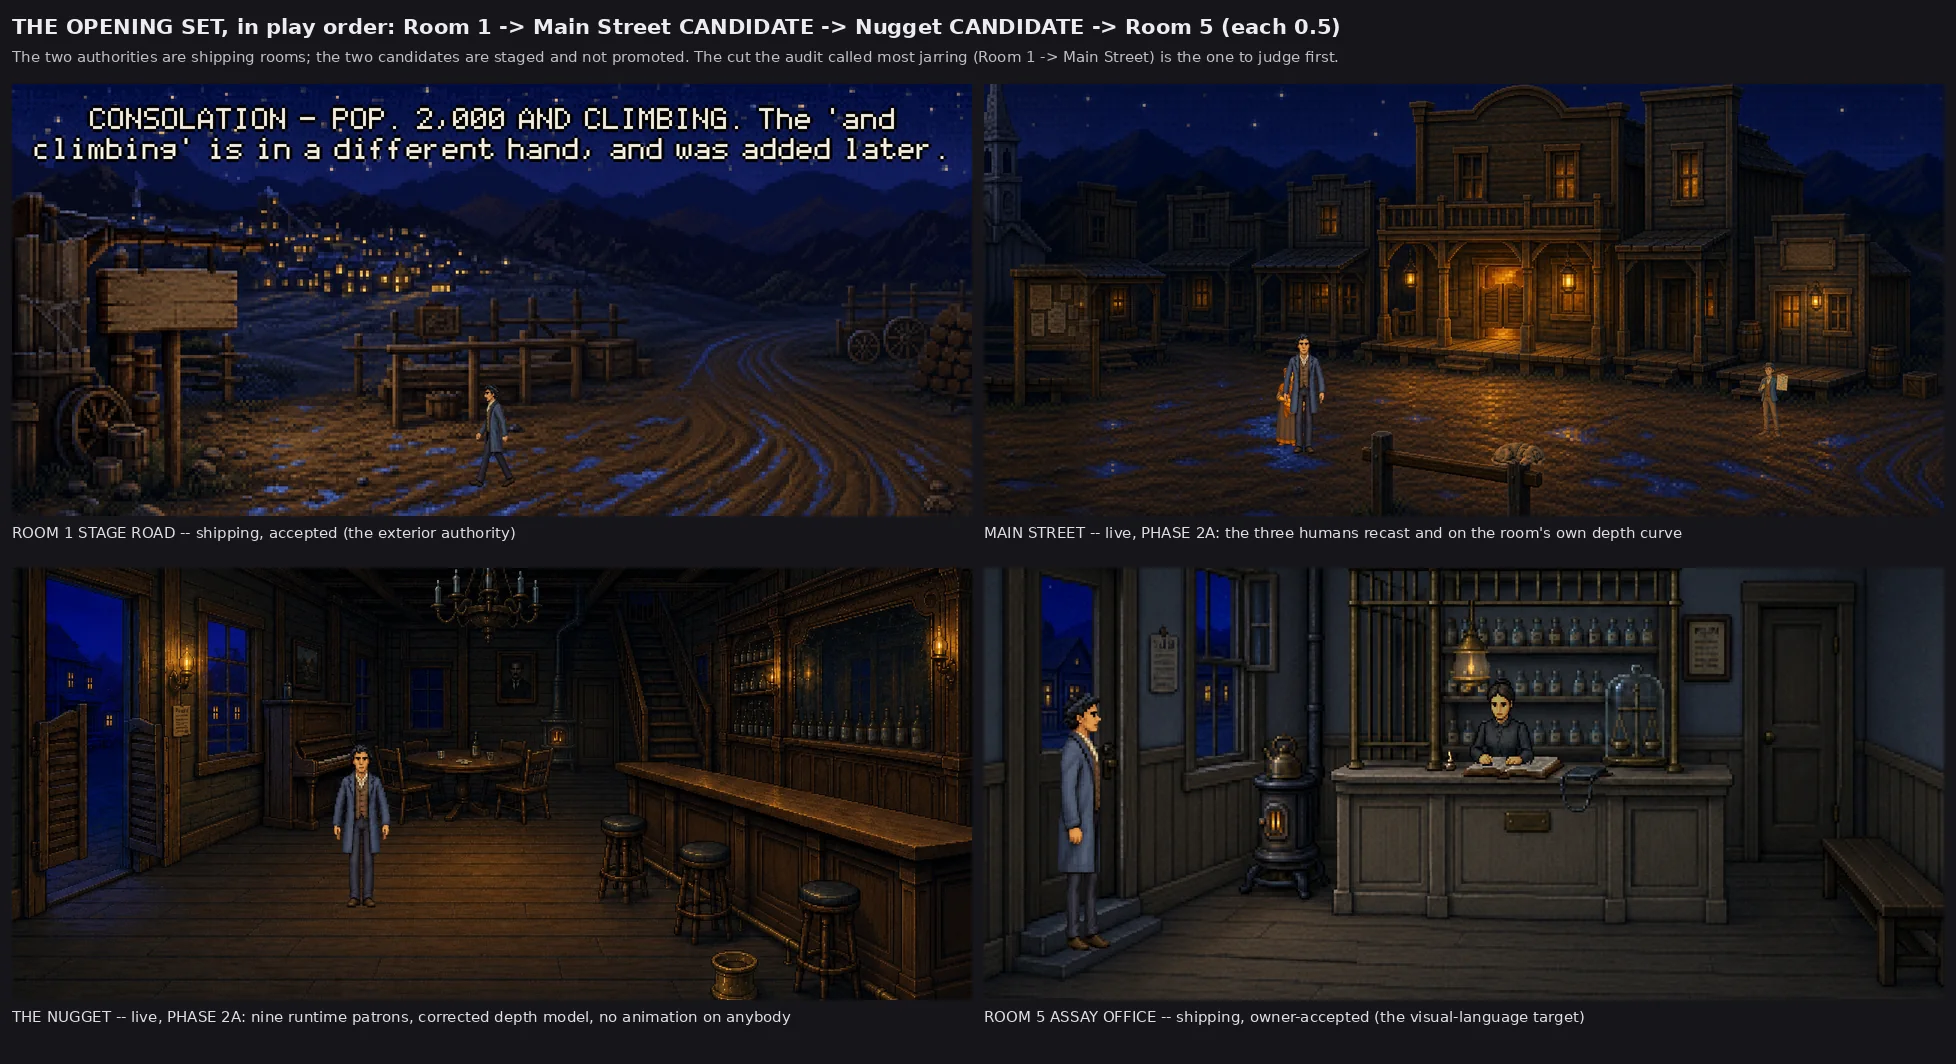
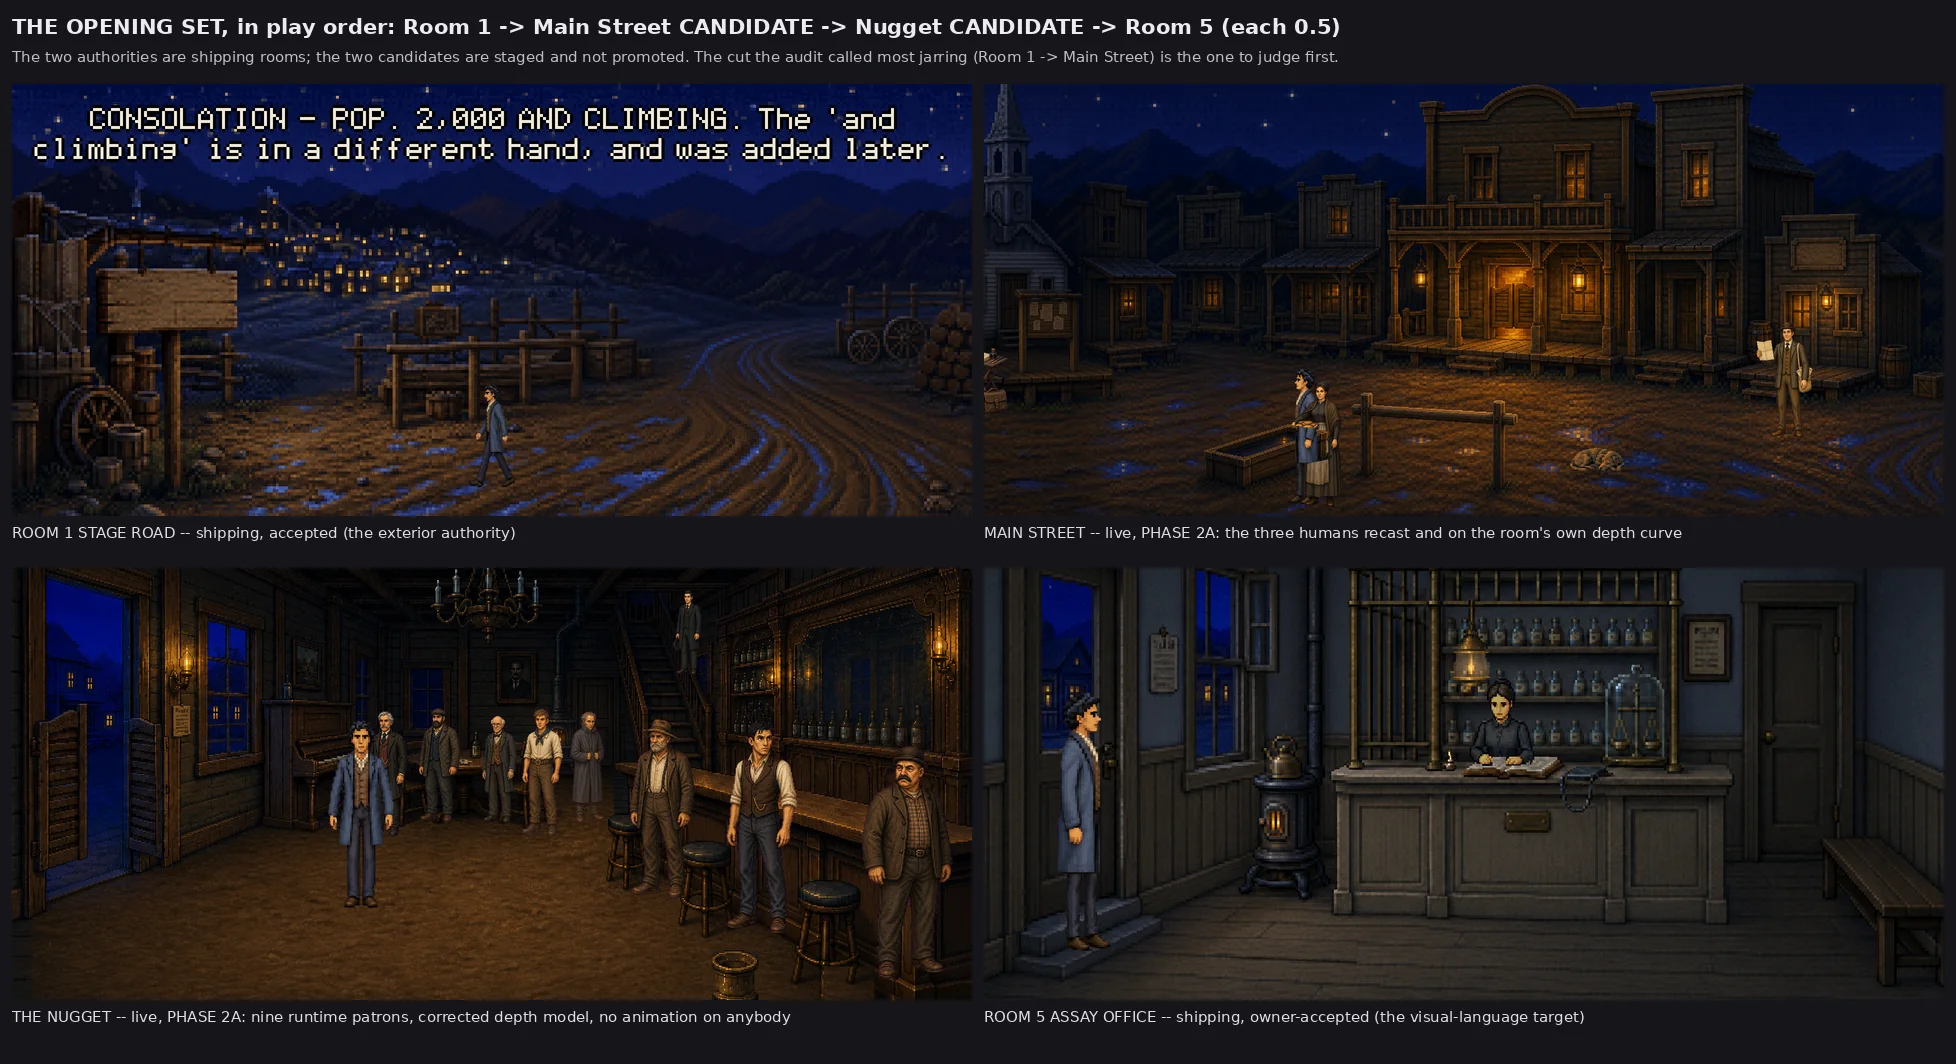
Phase 2A step 7: the continuity sheet was showing an empty saloon
It captioned a frame "nine runtime patrons, corrected depth model" over a
picture of Thad alone in an empty room. The frame was c04-thad-mid.png,
taken the day before the cast existed: the route has since been renumbered
and its capture is c05, so the old file sat in the proof directory looking
exactly like a current one and the sheet picked it up by name.

Doc 38 R3g is about precisely this -- a filmstrip regenerated and then the
STALE one presented alongside it -- and the sheet has now been taught the
same lesson the pipeline learned: a capture is looked up in the RUN'S OWN
record, and a name that matches nothing yields nothing rather than a file
that happens to exist. Twenty-six orphaned captures from renamed routes are
deleted across three proof directories.

Claude-Session: https://claude.ai/code/session_01MiLG5bfo9Ct7QPoXZ7Aowc

diff --git a/tools/retrofit/review-sheets.py b/tools/retrofit/review-sheets.py
@@ -77,6 +77,28 @@ def raw(dir_, name):
     return f'{dir_}/{name}.png'
 
 
+def fresh(life, dir_, *wanted):
+    """A capture THIS RUN actually took, by name fragment.
+
+    A proof directory accumulates: routes get renamed, captures get renumbered,
+    and the orphans stay on disk looking exactly like current ones. The
+    continuity sheet was reading `c04-thad-mid.png` -- a file from a run a day
+    older than the cast -- and captioning it "nine runtime patrons" over an
+    empty room. Doc 38 R3g names that failure exactly: a stale filmstrip
+    presented beside the fresh one. So the name is looked up in the run's own
+    record, and a fragment that matches nothing returns nothing rather than a
+    file that happens to exist.
+    """
+    names = [one['name'] for one in life.get('captures', [])]
+    for fragment in wanted:
+        for name in names:
+            if fragment in name:
+                path = raw(dir_, name)
+                if os.path.exists(path):
+                    return path
+    return None
+
+
 def thad_crop(life, name, width=420, margin=40):
     """A 1:1 crop around Thad in a capture, from the probe's own bounds."""
     cap = next((c for c in life['captures'] if c['name'] == name), None)
@@ -222,11 +244,13 @@ def continuity():
     frames = []
     r1 = 'renders/room-01-in-engine-1920x1080.png'
     frames.append((load(r1, crop=PLAY, scale=0.5), 'ROOM 1 STAGE ROAD -- shipping, accepted (the exterior authority)'))
-    ms = raw(MS_RAW, 'c04-thad-mid')
-    if os.path.exists(ms):
+    ms_life = 'renders/proofs/candidates/main-street/life.json'
+    ms = fresh(json.load(open(ms_life)), MS_RAW, 'thad-mid', 'before-trough') if os.path.exists(ms_life) else None
+    if ms:
         frames.append((load(ms, crop=PLAY, scale=0.5), 'MAIN STREET -- live, PHASE 2A: the three humans recast and on the room\'s own depth curve'))
-    ng = raw(NG_RAW, 'c04-thad-mid')
-    if os.path.exists(ng):
+    ng_life = 'renders/proofs/candidates/nugget/life.json'
+    ng = fresh(json.load(open(ng_life)), NG_RAW, 'thad-mid', 'near-bar') if os.path.exists(ng_life) else None
+    if ng:
         frames.append((load(ng, crop=PLAY, scale=0.5), 'THE NUGGET -- live, PHASE 2A: nine runtime patrons, corrected depth model, no animation on anybody'))
     r5 = 'renders/proofs/assay-office-shipping/raw-captures-ignored/panel-b-populated.png'
     if not os.path.exists(r5):
